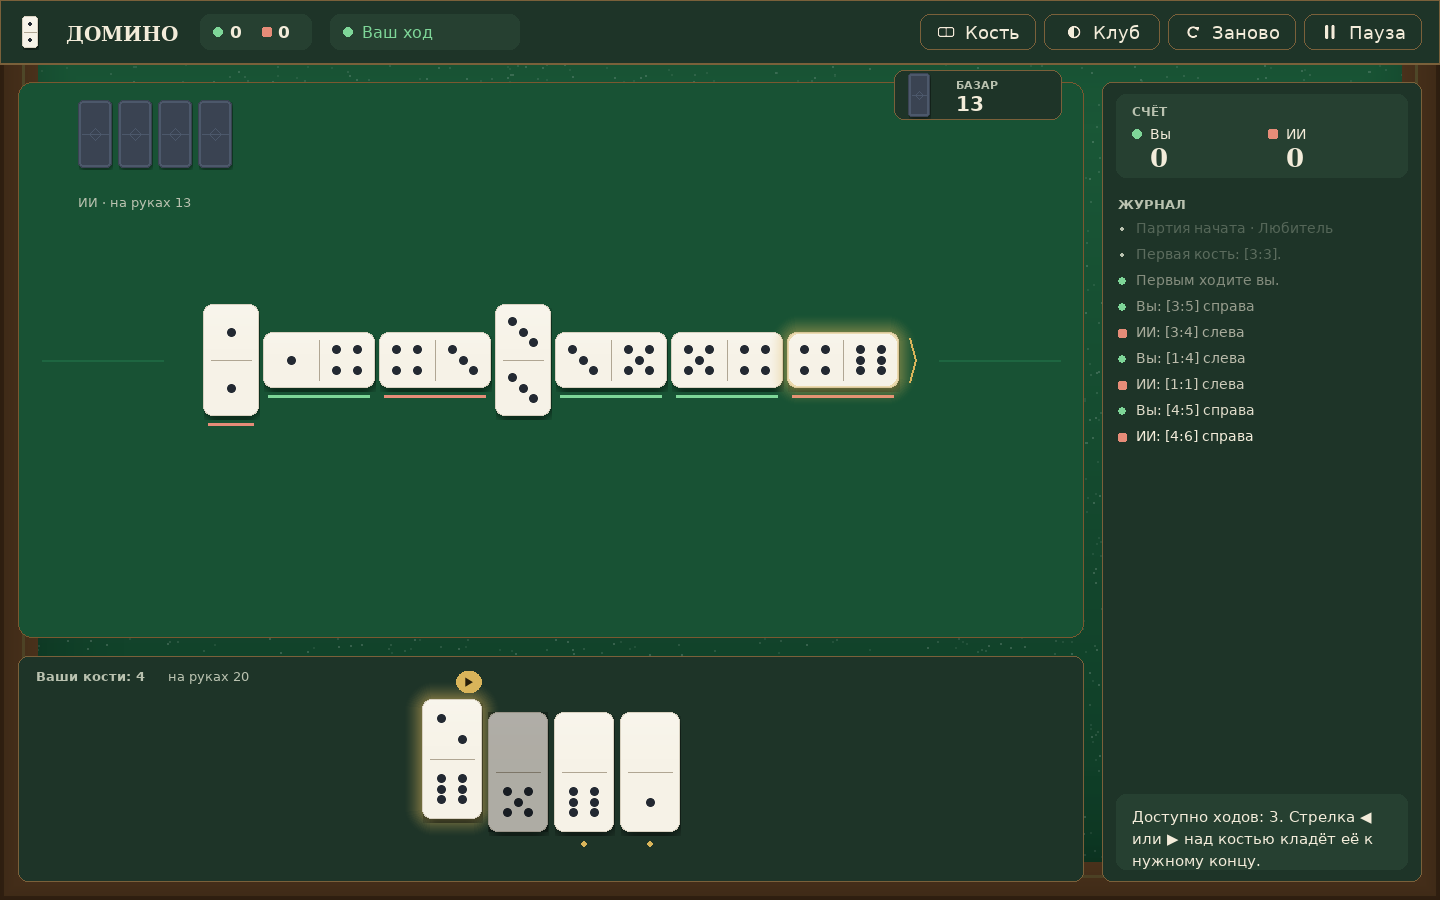
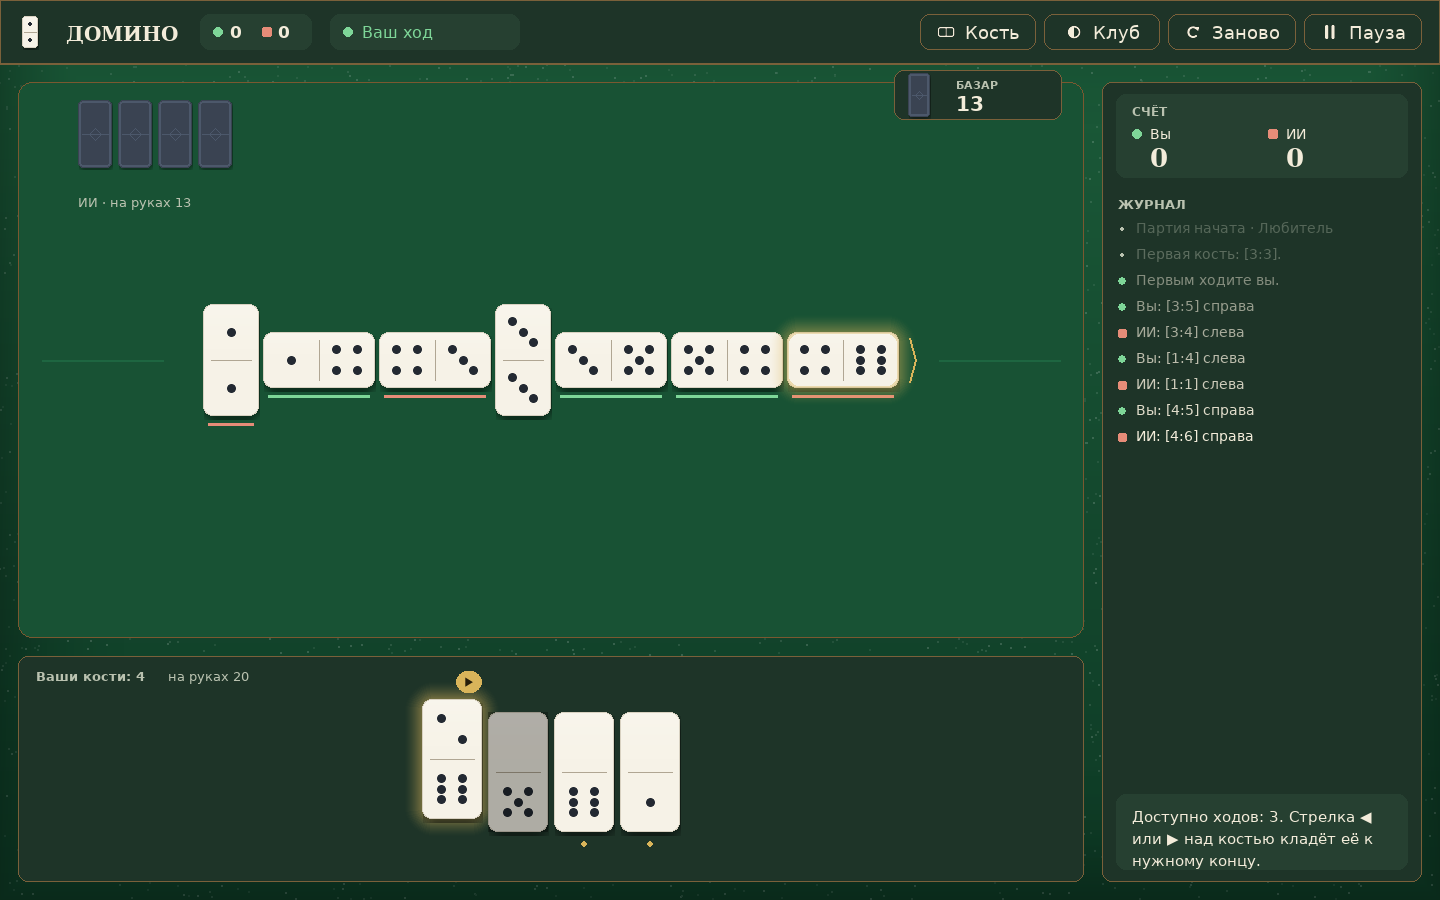
Убрана деревянная рамка из темы «Клуб»
По краю зелёного сукна шла декоративная деревянная рамка толщиной 22 px.
В меню она смотрелась нормально, а в игре расползалась рваными полосами:
панели отступают от края окна на BOARD_MARGIN (18 px), поэтому 4 px рамки
уходили под них, а 18 оставались торчать в зазорах — слева от поля, между
полем и рукой, под рукой и справа от панели.

Хуже того, рамка была только с трёх сторон: топбар непрозрачный и
перекрывал её сверху, так что получалась асимметричная «рамка без верха».

Теперь фон во всех трёх темах ровный: вертикальный градиент, крапинки сукна
и винетка. Тема «Дерево» и без этого коричневая, поэтому визуально ничего
не потеряла.

Тесты: 14 новых в tests/test_background.py. Проверки не зависят от конкретных
цветов — тема «Дерево» сама коричневая, и критерий «похоже на дерево» давал
ложные срабатывания. Вместо этого считается ожидаемый цвет по формуле
градиента и винетки, и с картинкой сверяется медианное отклонение: по кайме
всех четырёх сторон, в углах, в зазорах между панелями и в меню. Плюс прямая
проверка, что _draw_felt_pattern не рисует рамку.

На возвращённой рамке падают 5 тестов.

Changed region(s): [[0.0, 0.0622, 1.0, 1.0]]

diff --git a/tests/test_background.py b/tests/test_background.py
@@ -1,0 +1,181 @@
+"""Тесты фона: между панелями не должно быть декоративных обрывков.
+
+Проверки не зависят от конкретных цветов: тема «Дерево» сама коричневая,
+поэтому «похоже на дерево» — плохой критерий. Вместо этого считаем, каким
+фон обязан быть по формуле градиента и винетки, и сверяем с картинкой.
+"""
+
+from __future__ import annotations
+
+import os
+
+os.environ.setdefault('SDL_VIDEODRIVER', 'dummy')
+
+import pygame as pg  # noqa: E402
+import pytest  # noqa: E402
+
+from domino import settings  # noqa: E402
+from domino.ui.app import App  # noqa: E402
+from domino.ui.assets import render_background  # noqa: E402
+from domino.ui.scenes import GameScene, MenuScene  # noqa: E402
+from domino.ui.theme import THEME_ORDER, get_theme  # noqa: E402
+
+#: Ширина затемнения по краю из _draw_vignette.
+VIGNETTE_BAND = 140
+
+
+@pytest.fixture(scope='module')
+def app():
+    pg.init()
+    application = App(headless=True)
+    yield application
+    pg.quit()
+
+
+def _expected(theme, x: int, y: int) -> tuple[float, float, float]:
+    """Цвет фона без узора: вертикальный градиент минус винетка."""
+    height = settings.H
+    t = y / max(1, height - 1)
+    base = [theme.bg_top[i] + (theme.bg_bottom[i] - theme.bg_top[i]) * t
+            for i in range(3)]
+
+    depth = min(x, y, settings.W - 1 - x, settings.H - 1 - y)
+    depth = min(depth, VIGNETTE_BAND - 1)
+    alpha = int(70 * (1 - depth / VIGNETTE_BAND) ** 2)
+    return tuple(channel * (1 - alpha / 255) for channel in base)
+
+
+def _median_deviation(theme, points, background: pg.Surface | None = None) -> float:
+    """Типичное отклонение каймы от ожидаемого градиента.
+
+    Медиана, а не среднее: одиночные крапинки сукна не должны влиять.
+    """
+    if background is None:
+        background = render_background(theme, (settings.W, settings.H))
+    deviations = []
+    for x, y in points:
+        actual = background.get_at((x, y))[:3]
+        expected = _expected(theme, x, y)
+        deviations.append(
+            sum(abs(actual[i] - expected[i]) for i in range(3)) / 3
+        )
+    deviations.sort()
+    return deviations[len(deviations) // 2]
+
+
+@pytest.mark.parametrize('theme', THEME_ORDER)
+def test_background_edge_matches_the_gradient(app, theme):
+    """Регрессия: в теме «Клуб» по краю шла деревянная рамка 22 px.
+
+    Она не влезала в зазор BOARD_MARGIN (18 px), поэтому между панелями
+    торчали рваные полосы дерева, а сверху рамки не было — топбар её
+    перекрывал. Теперь кайма совпадает с обычным градиентом фона.
+    """
+    palette = get_theme(theme)
+    # Кайма по всем четырём сторонам, вглубь до бывшей рамки.
+    points = []
+    for depth in (1, 5, 9, 13, 17, 21):
+        for step in range(40, settings.W - 40, 40):
+            points.append((step, depth))
+            points.append((step, settings.H - 1 - depth))
+        for step in range(40, settings.H - 40, 40):
+            points.append((depth, step))
+            points.append((settings.W - 1 - depth, step))
+
+    deviation = _median_deviation(palette, points)
+    assert deviation < 12, (
+        f'{theme}: кайма отличается от градиента на {deviation:.0f} — это рамка'
+    )
+
+
+@pytest.mark.parametrize('theme', THEME_ORDER)
+def test_background_corner_has_no_extra_layer(app, theme):
+    """В углу нет второго слоя: там раньше сходились все полосы рамки."""
+    palette = get_theme(theme)
+    corners = []
+    for depth in (0, 3, 6, 9, 12, 15, 18, 21):
+        corners.append((depth, depth))
+        corners.append((settings.W - 1 - depth, depth))
+        corners.append((depth, settings.H - 1 - depth))
+        corners.append((settings.W - 1 - depth, settings.H - 1 - depth))
+
+    deviation = _median_deviation(palette, corners)
+    assert deviation < 14, f'{theme}: в углах лишний слой ({deviation:.0f})'
+
+
+@pytest.mark.parametrize('theme', THEME_ORDER)
+def test_gutters_between_panels_show_plain_background(app, theme):
+    """Регрессия: в зазорах между панелями проглядывали обрывки дерева."""
+    fresh = App(theme=theme, headless=True)
+    scene = GameScene(fresh, seed=12)
+    scene.session.enable_ai = False
+    scene.update(0.016)
+    scene.draw(fresh.screen)
+
+    palette = get_theme(theme)
+    gap = settings.BOARD_MARGIN // 2
+    middle = (scene.board_rect.bottom + scene.hand_rect.top) // 2
+
+    strips = {
+        'слева от поля': [(gap, y) for y in
+                          range(scene.topbar.bottom + 20, settings.H - 20, 7)],
+        'справа от панели': [(settings.W - 1 - gap, y) for y in
+                             range(scene.topbar.bottom + 20, settings.H - 20, 7)],
+        'между полем и рукой': [(x, middle) for x in
+                                range(scene.board_rect.left + 30,
+                                      scene.board_rect.right - 30, 9)],
+        'снизу под рукой': [(x, settings.H - 1 - gap) for x in
+                            range(scene.hand_rect.left + 30,
+                                  scene.hand_rect.right - 30, 9)],
+    }
+    for name, points in strips.items():
+        deviation = _median_deviation(palette, points, fresh.screen)
+        assert deviation < 16, (
+            f'{theme}/{name}: в зазоре не фон, а слой рамки ({deviation:.0f})'
+        )
+
+
+@pytest.mark.parametrize('theme', THEME_ORDER)
+def test_menu_background_matches_the_gradient(app, theme):
+    """Меню рисует фон целиком — ступеньки от рамки не должно быть и там."""
+    fresh = App(theme=theme, headless=True)
+    scene = MenuScene(fresh)
+    scene.update(0.016)
+    scene.draw(fresh.screen)
+
+    # Меню рисует поверх фона только свои карточки, кайма остаётся чистой.
+    points = []
+    for depth in (1, 6, 11, 16, 21):
+        for step in range(40, settings.W - 40, 60):
+            points.append((step, depth))
+            points.append((step, settings.H - 1 - depth))
+
+    deviation = _median_deviation(get_theme(theme), points)
+    assert deviation < 12, f'{theme}: в меню кайма не фон ({deviation:.0f})'
+
+
+def test_background_is_full_window(app):
+    """Фон совпадает с окном — никаких полей другого размера."""
+    for theme in THEME_ORDER:
+        background = render_background(get_theme(theme), (settings.W, settings.H))
+        assert background.get_size() == (settings.W, settings.H)
+
+
+def test_felt_pattern_draws_no_border(app):
+    """Прямая проверка: функция сукна больше не рисует рамку."""
+    from domino.ui.assets import _draw_felt_pattern
+
+    size = (240, 160)
+    surface = pg.Surface(size).convert()
+    palette = get_theme('club_green')
+    surface.fill(palette.bg_bottom)
+    _draw_felt_pattern(surface, palette)
+
+    # Внутри нет ни одного пикселя цвета прежней рамки.
+    for color in ((86, 58, 32), (64, 42, 22)):
+        for y in range(0, size[1], 3):
+            for x in range(0, size[0], 3):
+                pixel = surface.get_at((x, y))[:3]
+                assert not all(abs(pixel[i] - color[i]) <= 6 for i in range(3)), (
+                    f'найден цвет рамки {color} в ({x}, {y})'
+                )

diff --git a/domino/ui/assets.py b/domino/ui/assets.py
@@ -227,6 +227,12 @@ def _draw_flat_pattern(surface: pg.Surface, theme: Theme) -> None:
 
 
 def _draw_felt_pattern(surface: pg.Surface, theme: Theme) -> None:
+    """Сухое сукно: частые крапинки и лёгкое свечение сверху.
+
+    Раньше по краю рисовалась деревянная рамка, но она не вписывалась в
+    раскладку: 22 px не влезали в зазор BOARD_MARGIN (18 px), и между
+    панелями торчали рваные полосы дерева. Теперь фон ровный.
+    """
     rng = random.Random(17)
     layer = pg.Surface(surface.get_size(), pg.SRCALPHA)
     for _ in range(5200):
@@ -235,19 +241,6 @@ def _draw_felt_pattern(surface: pg.Surface, theme: Theme) -> None:
         shade = rng.choice((18, 26, 40))
         pg.draw.circle(layer, (255, 255, 255, shade), (x, y), 1)
 
-    # Деревянная рамка по краю — визуальная «рамка стола».
-    frame = 22
-    wood = (86, 58, 32)
-    wood_dark = (64, 42, 22)
-    for offset, color in ((0, wood_dark), (4, wood), (frame - 6, wood)):
-        pg.draw.rect(layer, color, (offset, offset, surface.get_width() - offset * 2, surface.get_height() - offset * 2), frame)
-    inner = frame
-    pg.draw.rect(
-        layer,
-        (*theme.board_edge, 190),
-        (inner, inner, surface.get_width() - inner * 2, surface.get_height() - inner * 2),
-        3,
-    )
     surface.blit(layer, (0, 0))
 
 
